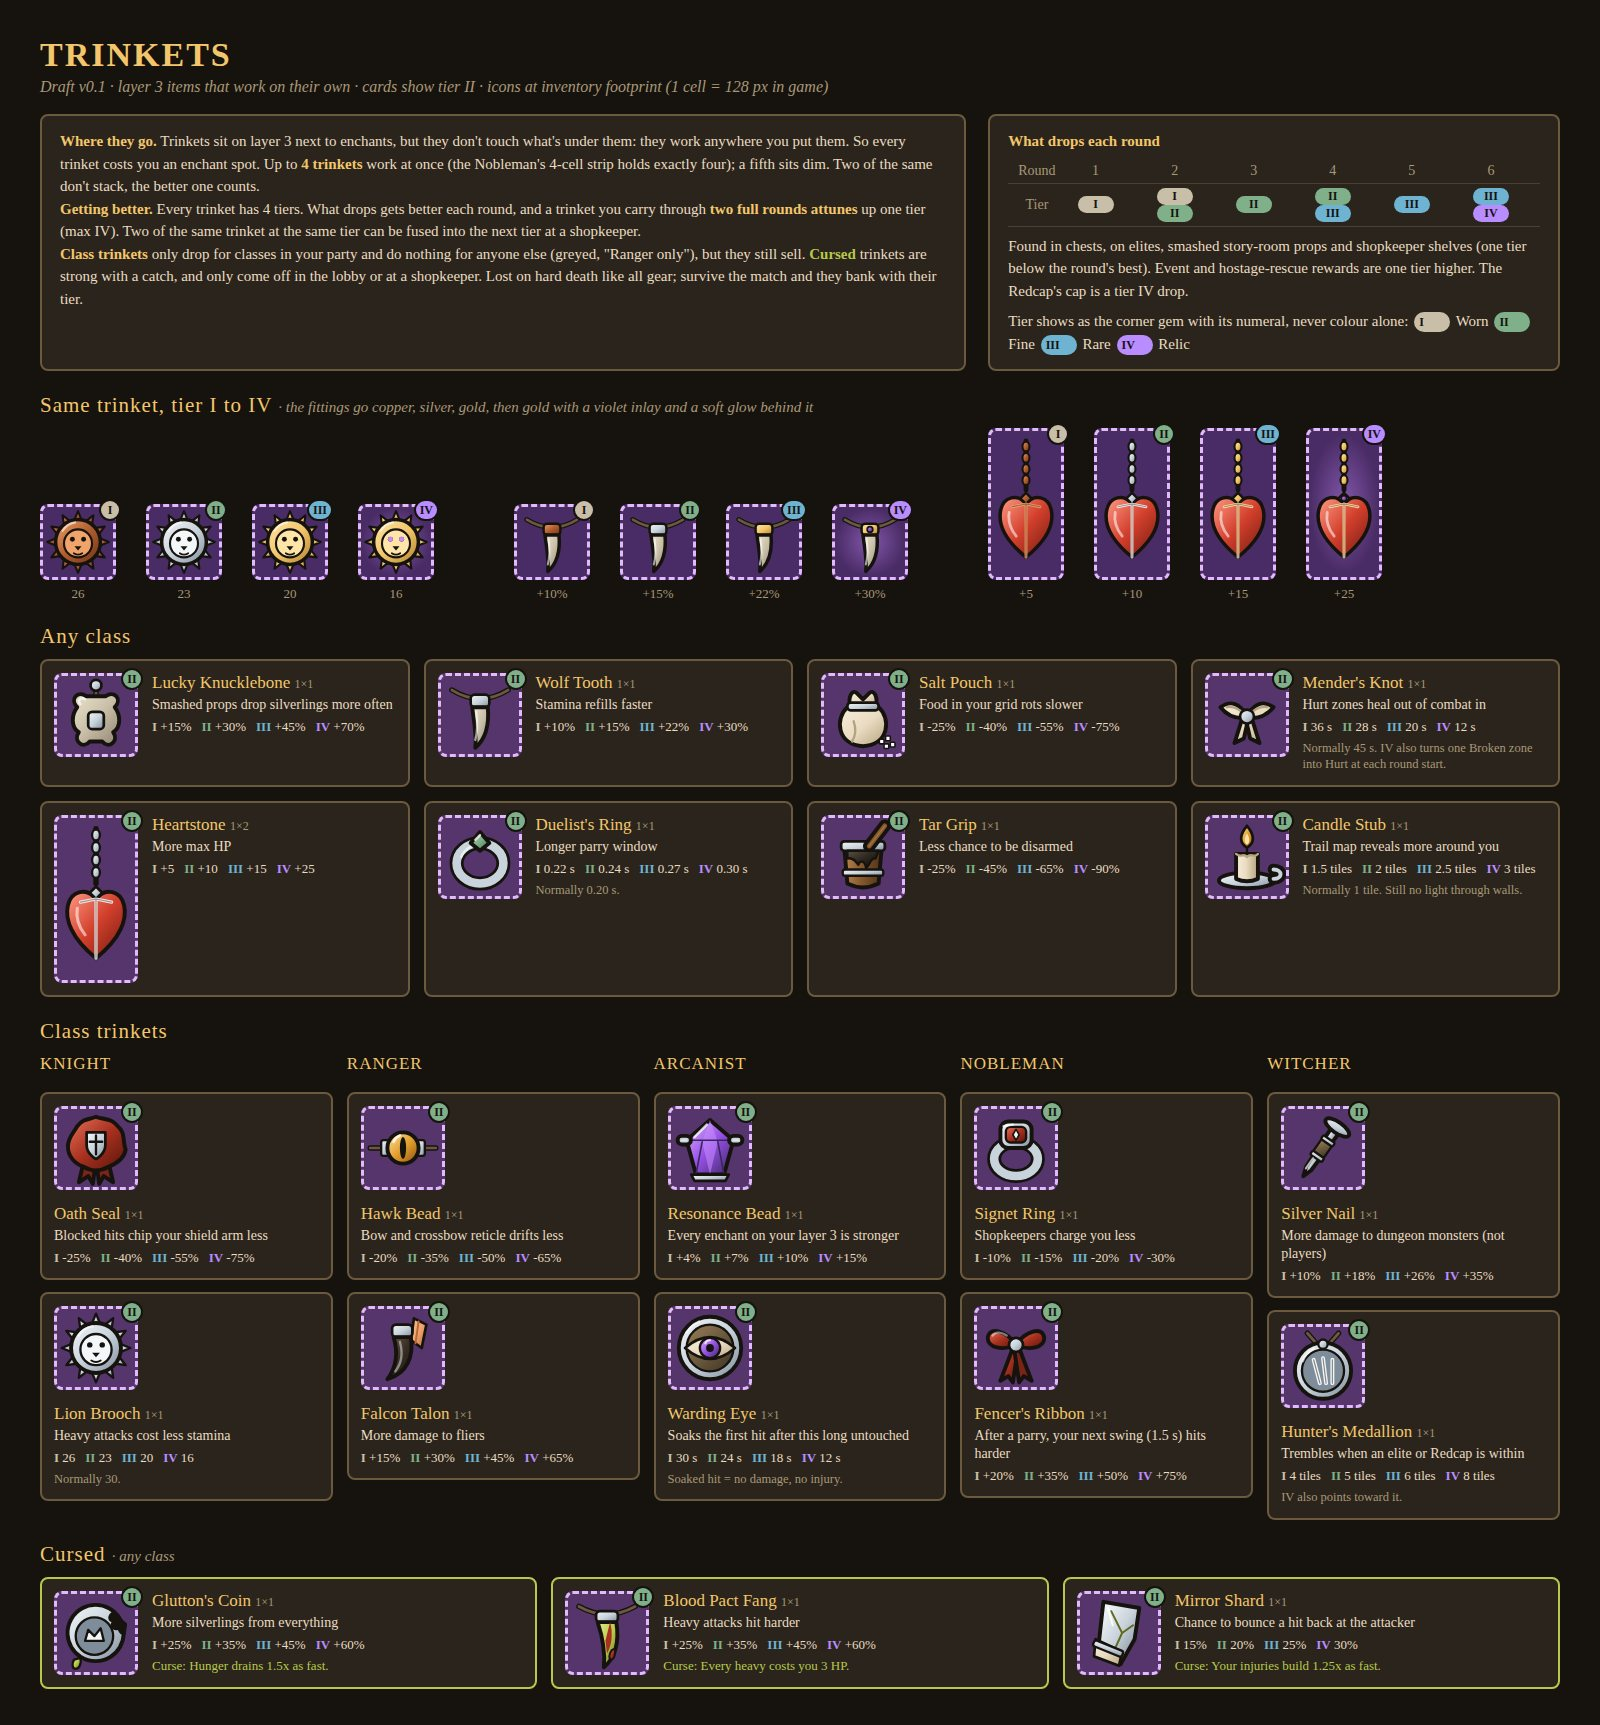
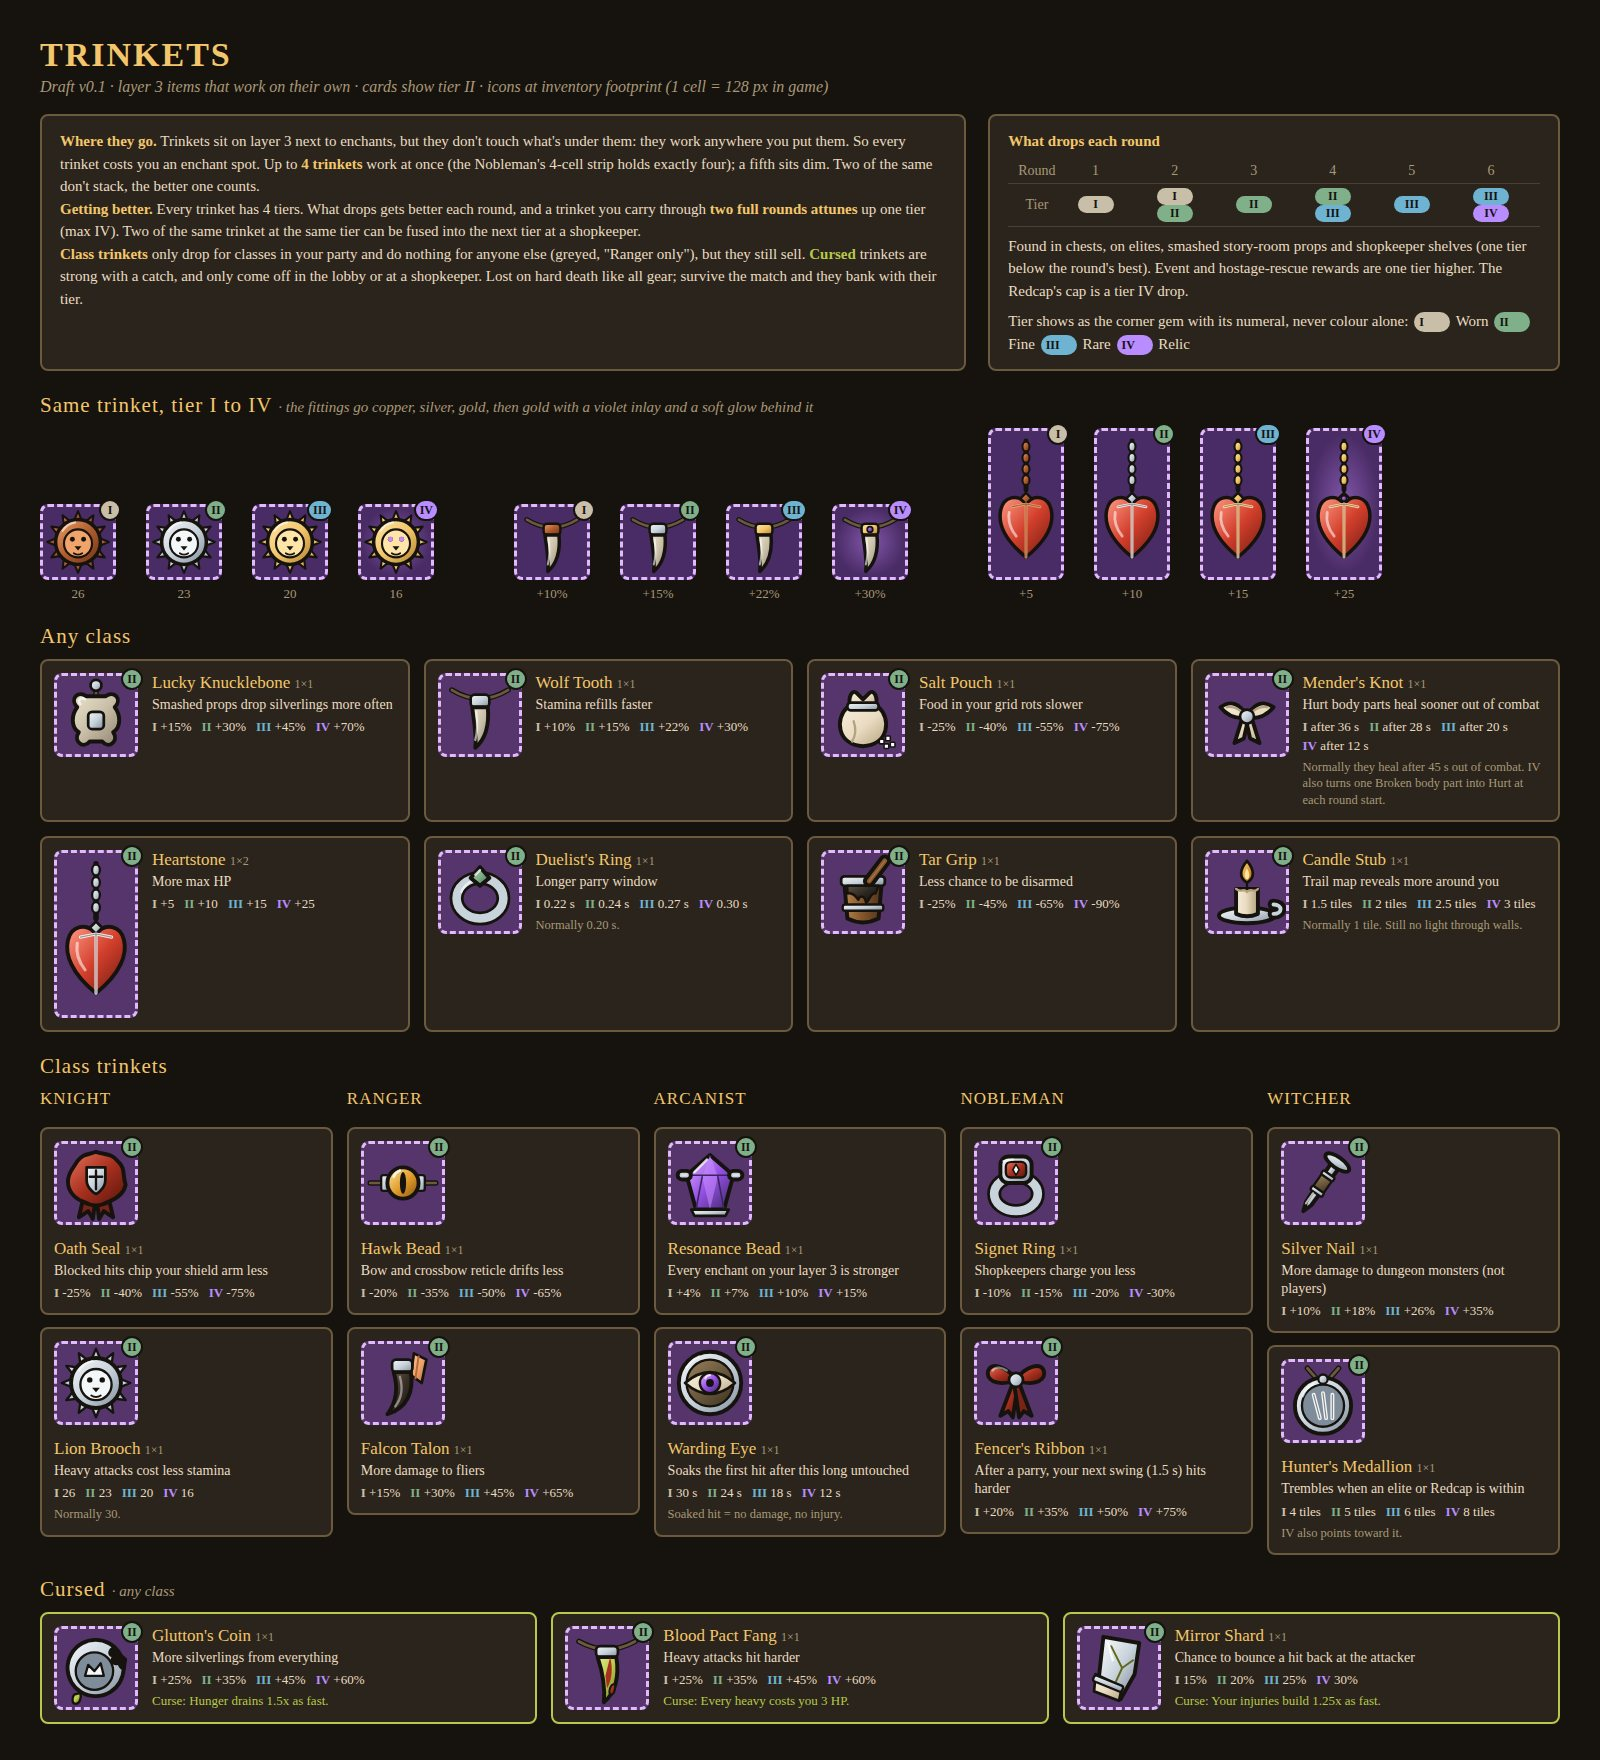
Re-sync the trinket board image
Claude-Session: https://claude.ai/code/session_01BBz4VfGTsvBuNKXe58LieA

diff --git a/docs/trinkets.md b/docs/trinkets.md
@@ -42,7 +42,7 @@ Values are for tiers I / II / III / IV.
 | Lucky Knucklebone | 1x1 | Smashed props drop silverlings more often | +15 / +30 / +45 / +70% |
 | Wolf Tooth | 1x1 | Stamina refills faster | +10 / +15 / +22 / +30% |
 | Salt Pouch | 1x1 | Food in your grid rots slower | -25 / -40 / -55 / -75% |
-| Mender's Knot | 1x1 | Hurt body parts heal sooner out of combat (normally after 45 s). IV also turns one Broken body part into Hurt at round start | After 36 s / 28 s / 20 s / 12 s |
+| Mender's Knot | 1x1 | Hurt body parts heal sooner out of combat (normally after 45 s). IV also turns one Broken body part into Hurt at each round start | After 36 s / 28 s / 20 s / 12 s |
 | Heartstone | 1x2 | Max HP | +5 / +10 / +15 / +25 |
 | Duelist's Ring | 1x1 | Wider parry window (normally 0.20 s) | 0.22 / 0.24 / 0.27 / 0.30 s |
 | Tar Grip | 1x1 | Less chance to be disarmed | -25 / -45 / -65 / -90% |
